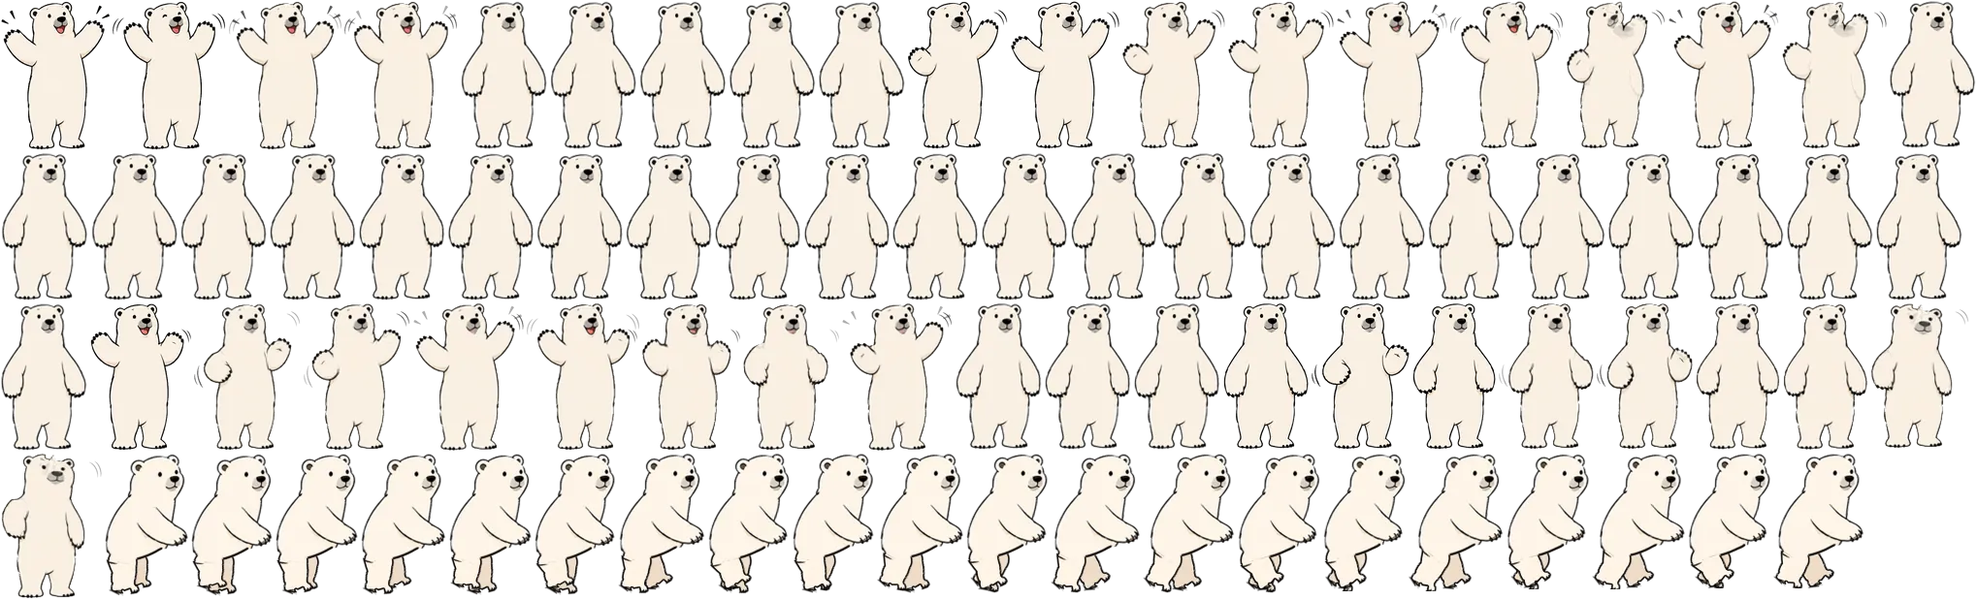
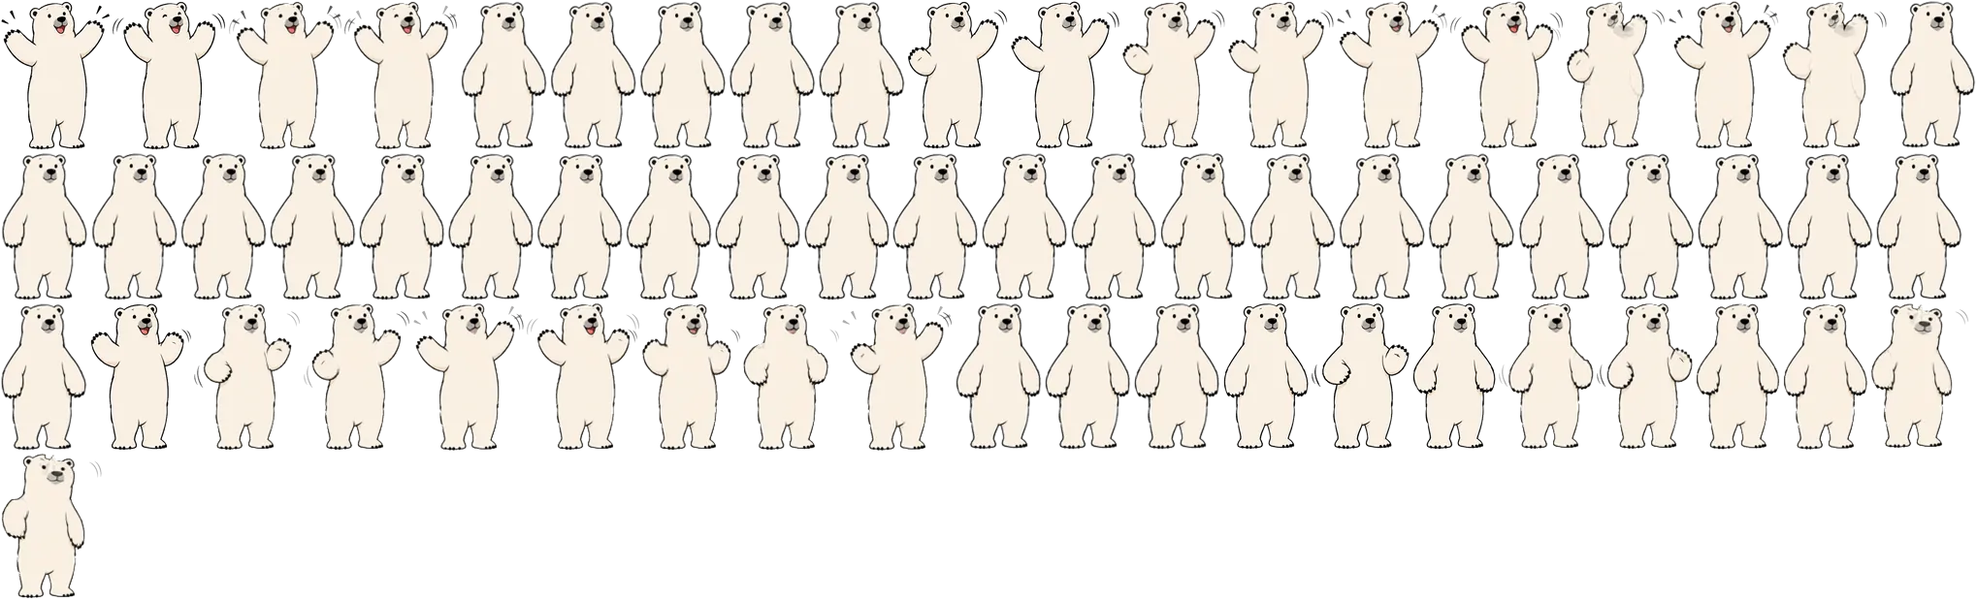
Bear walk replaced with the new walking animation from the supplied video
Claude-Session: https://claude.ai/code/session_01CeHmJgKZfF64tcsRYisCNi

Changed region(s): [[0.0309, 0.7367, 0.9583, 1.0]]

diff --git a/assistant/assistant.js b/assistant/assistant.js
@@ -202,14 +202,14 @@
   // (assistant/bear-*.webp), a live gold chain with physics, and a little "brain" that picks what to do next
   function pengHTML() { return '<span class="pa-mv"><canvas class="pa-bear" aria-hidden="true"></canvas></span>'; }
   function pengMini() { return '<canvas class="pa-bear pa-bear-mini" aria-hidden="true"></canvas>'; }
-  /*BEAR-DATA*/var BD = {"atlas":["bear-core.webp","bear-hello.webp","bear-push.webp","bear-fall.webp","bear-rain.webp"],"f":{"idle0":[0,1947,0,91,154,44,152,-17.6,-111.4,18.4,-110.8,1.1,-94.0],"idle1":[0,0,157,92,154,45,152,-17.4,-111.6,18.6,-111.0,1.3,-94.2],"idle2":[0,93,157,91,154,45,152,-17.2,-111.8,18.8,-111.1,1.5,-94.4],"idle3":[0,185,157,91,154,45,152,-17.0,-111.9,19.0,-111.1,1.7,-94.5],"idle4":[0,277,157,91,154,45,152,-16.9,-111.9,19.1,-111.1,1.9,-94.5],"idle5":[0,369,157,91,154,45,152,-16.8,-111.8,19.2,-111.1,2.0,-94.4],"idle6":[0,461,157,90,154,45,152,-16.8,-111.6,19.2,-111.0,2.1,-94.3],"idle7":[0,552,157,91,154,46,152,-16.8,-111.4,19.2,-110.8,2.1,-94.2],"idle8":[0,644,157,91,154,46,152,-16.8,-111.1,19.2,-110.6,2.1,-94.0],"idle9":[0,984,312,91,153,46,151,-16.9,-110.8,19.1,-110.5,2.1,-93.8],"idle10":[0,1076,312,91,153,46,151,-17.0,-110.6,19.0,-110.4,2.0,-93.6],"idle11":[0,1168,312,91,153,46,151,-17.1,-110.5,18.8,-110.4,1.9,-93.5],"idle12":[0,736,157,91,154,46,152,-17.3,-110.5,18.7,-110.4,1.7,-93.5],"idle13":[0,828,157,90,154,46,152,-17.5,-110.5,18.5,-110.5,1.6,-93.5],"idle14":[0,919,157,91,154,46,152,-17.7,-110.7,18.3,-110.7,1.4,-93.7],"idle15":[0,1011,157,91,154,46,152,-17.9,-110.8,18.1,-111.0,1.2,-93.8],"idle16":[0,1103,157,91,154,46,152,-18.2,-111.0,17.8,-111.2,0.9,-94.0],"idle17":[0,1195,157,91,154,46,152,-18.4,-111.2,17.6,-111.5,0.7,-94.2],"idle18":[0,474,0,91,155,46,153,-18.6,-111.3,17.4,-111.7,0.5,-94.4],"idle19":[0,566,0,91,155,46,153,-18.9,-111.3,17.1,-111.8,0.3,-94.5],"idle20":[0,658,0,92,155,46,153,-19.1,-111.3,16.9,-111.9,0.1,-94.5],"idle21":[0,751,0,91,155,45,153,-19.2,-111.2,16.8,-111.8,-0.0,-94.5],"idle22":[0,843,0,91,155,45,153,-19.3,-111.0,16.7,-111.7,-0.1,-94.3],"idle23":[0,1287,157,91,154,45,152,-19.4,-110.7,16.6,-111.5,-0.2,-94.2],"idle24":[0,1379,157,91,154,45,152,-19.4,-110.5,16.6,-111.3,-0.2,-94.0],"idle25":[0,1471,157,92,154,45,152,-19.3,-110.3,16.7,-111.0,-0.1,-93.8],"idle26":[0,1564,157,92,154,45,152,-19.2,-110.2,16.8,-110.8,-0.0,-93.6],"idle27":[0,1657,157,91,154,44,152,-19.0,-110.2,17.0,-110.7,0.1,-93.5],"idle28":[0,1749,157,91,154,44,152,-18.7,-110.3,17.2,-110.6,0.2,-93.5],"idle29":[0,1841,157,91,154,44,152,-18.5,-110.5,17.5,-110.6,0.4,-93.5],"idle30":[0,1933,157,91,154,44,152,-18.2,-110.8,17.8,-110.6,0.7,-93.7],"idle31":[0,0,312,91,154,44,152,-17.9,-111.1,18.1,-110.7,0.9,-93.8],"rw0":[0,1739,467,87,140,40,137,-10.3,-100.8,25.5,-95.5,12.0,-83.0],"rw1":[0,1552,467,87,141,40,138,-10.5,-102.0,25.4,-96.7,11.9,-84.2],"rw2":[0,1363,467,87,143,40,140,-10.9,-104.1,25.0,-99.1,11.6,-86.5],"rw3":[0,995,467,86,145,40,142,-11.3,-105.5,24.6,-100.7,11.3,-88.0],"rw4":[0,816,467,86,146,40,144,-11.7,-106.4,24.2,-101.8,11.0,-89.0],"rw5":[0,283,467,87,148,40,146,-11.9,-106.9,24.1,-102.4,10.9,-89.6],"rw6":[0,107,467,88,149,40,147,-11.7,-106.9,24.2,-102.2,11.0,-89.5],"rw7":[0,371,467,90,148,40,146,-11.3,-106.3,24.6,-101.5,11.3,-88.8],"rw8":[0,636,467,92,147,41,144,-10.9,-105.4,25.0,-100.4,11.6,-87.8],"rw9":[0,1082,467,94,145,43,142,-10.5,-104.4,25.4,-99.1,11.9,-86.6],"rw10":[0,1827,467,96,140,44,137,-10.3,-100.8,25.5,-95.5,12.0,-83.0],"rw11":[0,1640,467,98,141,47,138,-10.5,-102.0,25.4,-96.7,11.9,-84.2],"rw12":[0,1451,467,100,143,49,140,-10.9,-104.1,25.0,-99.1,11.6,-86.5],"rw13":[0,1177,467,97,145,47,142,-11.3,-105.5,24.6,-100.7,11.3,-88.0],"rw14":[0,903,467,91,146,43,144,-11.7,-106.4,24.2,-101.8,11.0,-89.0],"rw15":[0,462,467,87,148,40,146,-11.9,-106.9,24.1,-102.4,10.9,-89.6],"rw16":[0,196,467,86,149,40,147,-11.7,-106.9,24.2,-102.2,11.0,-89.5],"rw17":[0,550,467,85,148,40,146,-11.3,-106.3,24.6,-101.5,11.3,-88.8],"rw18":[0,729,467,86,147,40,144,-10.9,-105.4,25.0,-100.4,11.6,-87.8],"rw19":[0,1275,467,87,145,40,142,-10.5,-104.4,25.4,-99.1,11.9,-86.6],"happy0":[0,1260,312,90,153,45,151,-18.0,-111.0,18.0,-111.0,1.0,-94.0],"happy1":[0,1351,312,103,153,54,151,-18.0,-111.0,17.0,-111.0,0.0,-94.0],"happy2":[0,935,0,105,155,47,153,-18.0,-110.0,16.0,-111.0,-1.0,-94.0],"happy3":[0,1041,0,114,155,56,153,-18.0,-110.0,16.0,-111.0,-1.0,-94.0],"happy4":[0,0,0,114,156,58,155,-20.0,-113.0,14.0,-113.0,-3.0,-97.0],"happy5":[0,115,0,119,156,61,155,-21.0,-112.0,13.0,-112.0,-4.0,-96.0],"happy6":[0,92,312,106,154,51,153,-19.0,-113.0,14.0,-113.0,-3.0,-97.0],"happy7":[0,1455,312,88,153,45,152,-18.0,-111.0,17.0,-111.0,0.0,-94.0],"happy0-1.1":[0,1544,312,100,153,54,151,-18.0,-111.0,17.7,-111.0,0.7,-94.0],"happy0-1.2":[0,1645,312,101,153,54,151,-18.0,-111.0,17.3,-111.0,0.3,-94.0],"happy1-2.1":[0,199,312,112,154,54,152,-18.0,-110.7,16.7,-111.0,-0.3,-94.0],"happy1-2.2":[0,312,312,112,154,54,152,-18.0,-110.3,16.3,-111.0,-0.7,-94.0],"happy2-3.1":[0,1156,0,108,155,50,153,-18.0,-110.0,16.0,-111.0,-1.0,-94.0],"happy2-3.2":[0,1265,0,111,155,53,153,-18.0,-110.0,16.0,-111.0,-1.0,-94.0],"happy3-4.1":[0,425,312,116,154,58,153,-18.7,-111.0,15.3,-111.7,-1.7,-95.0],"happy3-4.2":[0,1377,0,116,155,58,154,-19.3,-112.0,14.7,-112.3,-2.3,-96.0],"happy4-5.1":[0,235,0,118,156,61,155,-20.3,-112.7,13.7,-112.7,-3.3,-96.7],"happy4-5.2":[0,354,0,119,156,61,155,-20.7,-112.3,13.3,-112.3,-3.7,-96.3],"happy5-6.1":[0,1494,0,119,155,61,154,-20.3,-112.3,13.3,-112.3,-3.7,-96.3],"happy5-6.2":[0,542,312,118,154,61,153,-19.7,-112.7,13.7,-112.7,-3.3,-96.7],"happy6-7.1":[0,661,312,103,154,48,153,-18.7,-112.3,15.0,-112.3,-2.0,-96.0],"happy6-7.2":[0,765,312,101,154,46,153,-18.3,-111.7,16.0,-111.7,-1.0,-95.0],"happy7-0.1":[0,1747,312,89,153,45,152,-18.0,-111.0,17.3,-111.0,0.3,-94.0],"happy7-0.2":[0,1837,312,89,153,45,152,-18.0,-111.0,17.7,-111.0,0.7,-94.0],"happy0-2.1":[0,1927,312,104,152,46,150,-18.0,-110.7,17.3,-111.0,0.3,-94.0],"happy0-2.2":[0,1614,0,104,155,46,153,-18.0,-110.3,16.7,-111.0,-0.3,-94.0],"happy2-4.1":[0,867,312,116,154,58,153,-18.7,-111.0,15.3,-111.7,-1.7,-95.0],"happy2-4.2":[0,1719,0,116,155,58,154,-19.3,-112.0,14.7,-112.3,-2.3,-96.0],"happy0-3.1":[0,0,467,106,152,48,150,-18.0,-110.7,17.3,-111.0,0.3,-94.0],"happy0-3.2":[0,1836,0,110,155,52,153,-18.0,-110.3,16.7,-111.0,-0.3,-94.0],"hello0":[1,1120,0,90,153,45,151,-23.0,-109.0,18.0,-107.0,2.0,-93.0],"hello1":[1,888,0,116,154,64,153,-21.0,-110.0,18.0,-108.0,3.0,-95.0],"hello2":[1,283,0,130,157,53,157,-23.0,-110.0,16.0,-108.0,1.0,-94.0],"hello3":[1,756,310,140,126,90,126,3.0,-95.0,32.0,-83.0,20.0,-69.0],"hello4":[1,0,159,142,150,74,150,-13.0,-112.0,31.0,-111.0,13.0,-95.0],"hello5":[1,697,159,127,148,65,157,-11.0,-119.0,25.0,-119.0,8.0,-103.0],"hello6":[1,301,310,165,137,83,157,-15.0,-115.0,27.0,-115.0,5.0,-99.0],"hello7":[1,166,310,134,138,74,140,-23.0,-97.0,19.0,-97.0,-2.0,-83.0],"hello8":[1,237,159,165,149,86,150,-19.0,-107.0,23.0,-107.0,2.0,-92.0],"hello9":[1,1451,159,127,146,65,148,-23.0,-106.0,22.0,-107.0,0.0,-91.0],"hello10":[1,143,159,93,150,49,151,-27.0,-109.0,17.0,-107.0,-1.0,-93.0],"hello0-1.1":[1,1211,0,112,153,64,151,-22.3,-109.3,18.0,-107.3,2.3,-93.7],"hello0-1.2":[1,1005,0,114,154,64,152,-21.7,-109.7,18.0,-107.7,2.7,-94.3],"hello1-2.1":[1,0,0,140,158,64,157,-21.7,-110.0,17.3,-108.0,2.3,-94.7],"hello1-2.2":[1,141,0,141,158,64,157,-22.3,-110.0,16.7,-108.0,1.7,-94.3],"hello2-3.1":[1,414,0,167,157,90,157,-14.3,-105.0,21.3,-99.7,7.3,-85.7],"hello2-3.2":[1,582,0,166,157,90,157,-5.7,-100.0,26.7,-91.3,13.7,-77.3],"hello3-4.1":[1,467,310,146,134,90,134,-2.3,-100.7,31.7,-92.3,17.7,-77.7],"hello3-4.2":[1,1887,159,152,142,90,142,-7.7,-106.3,31.3,-101.7,15.3,-86.3],"hello4-5.1":[1,1324,0,140,153,74,153,-12.3,-114.3,29.0,-113.7,11.3,-97.7],"hello4-5.2":[1,749,0,138,155,74,155,-11.7,-116.7,27.0,-116.3,9.7,-100.3],"hello5-6.1":[1,825,159,165,148,83,157,-12.3,-117.7,25.7,-117.7,7.0,-101.7],"hello5-6.2":[1,991,159,165,148,83,157,-13.7,-116.3,26.3,-116.3,6.0,-100.3],"hello6-7.1":[1,1465,0,165,153,83,157,-17.7,-109.0,24.3,-109.0,2.7,-93.7],"hello6-7.2":[1,1631,0,165,153,83,157,-20.3,-103.0,21.7,-103.0,0.3,-88.3],"hello7-8.1":[1,0,310,165,142,86,144,-21.7,-100.3,20.3,-100.3,-0.7,-86.0],"hello7-8.2":[1,1579,159,165,145,86,147,-20.3,-103.7,21.7,-103.7,0.7,-89.0],"hello8-9.1":[1,403,159,165,149,86,150,-20.3,-106.7,22.7,-107.0,1.3,-91.7],"hello8-9.2":[1,1157,159,165,147,86,149,-21.7,-106.3,22.3,-107.0,0.7,-91.3],"hello9-10.1":[1,1323,159,127,147,65,149,-24.3,-107.0,20.3,-107.0,-0.3,-91.7],"hello9-10.2":[1,569,159,127,149,65,150,-25.7,-108.0,18.7,-107.0,-0.7,-92.3],"hello10-0.1":[1,1890,0,92,151,48,151,-25.7,-109.0,17.3,-107.0,0.0,-93.0],"hello10-0.2":[1,1797,0,92,152,47,151,-24.3,-109.0,17.7,-107.0,1.0,-93.0],"hello1-3.1":[1,1745,159,141,145,90,144,-13.0,-105.0,22.7,-99.7,8.7,-86.3],"hello1-3.2":[1,614,310,141,134,90,134,-5.0,-100.0,27.3,-91.3,14.3,-77.7],"push2":[2,621,0,162,142,80,141,-17.0,-97.0,27.0,-96.0,12.0,-80.0],"push3":[2,1264,151,179,128,92,129,-13.0,-91.0,29.0,-84.0,11.0,-70.0],"push4":[2,1444,151,185,127,93,133,-5.0,-94.0,38.0,-87.0,20.0,-73.0],"push5":[2,369,288,184,126,93,133,1.0,-94.0,44.0,-87.0,26.0,-73.0],"push6":[2,920,288,182,125,93,133,2.0,-94.0,45.0,-87.0,27.0,-73.0],"push7":[2,1103,288,182,125,93,133,2.0,-94.0,45.0,-87.0,27.0,-73.0],"push8":[2,545,151,170,135,93,144,-13.0,-96.0,28.0,-94.0,13.0,-78.0],"push9":[2,1673,0,174,137,82,145,-25.0,-101.0,21.0,-99.0,5.0,-83.0],"push10":[2,489,0,131,144,58,149,-18.0,-106.0,26.0,-106.0,4.0,-90.0],"push11":[2,0,0,162,150,82,154,-18.0,-106.0,26.0,-106.0,4.0,-91.0],"push2-3.1":[2,1134,0,166,138,84,137,-15.7,-95.0,27.7,-92.0,11.7,-76.7],"push2-3.2":[2,716,151,175,134,88,133,-14.3,-93.0,28.3,-88.0,11.3,-73.3],"push3-4.1":[2,1078,151,185,129,93,130,-10.3,-92.0,32.0,-85.0,14.0,-71.0],"push3-4.2":[2,892,151,185,131,93,132,-7.7,-93.0,35.0,-86.0,17.0,-72.0],"push4-5.1":[2,1630,151,185,127,93,133,-3.0,-94.0,40.0,-87.0,22.0,-73.0],"push4-5.2":[2,1816,151,185,127,93,133,-1.0,-94.0,42.0,-87.0,24.0,-73.0],"push5-6.1":[2,0,288,184,127,93,134,1.3,-94.0,44.3,-87.0,26.3,-73.0],"push5-6.2":[2,185,288,183,127,93,134,1.7,-94.0,44.7,-87.0,26.7,-73.0],"push6-7.1":[2,554,288,182,126,93,134,2.0,-94.0,45.0,-87.0,27.0,-73.0],"push6-7.2":[2,737,288,182,126,93,134,2.0,-94.0,45.0,-87.0,27.0,-73.0],"push7-8.1":[2,1848,0,182,136,93,144,-3.0,-94.7,39.3,-89.3,22.3,-74.7],"push7-8.2":[2,0,151,182,136,93,144,-8.0,-95.3,33.7,-91.7,17.7,-76.3],"push8-4.1":[2,1301,0,185,138,93,144,-10.3,-95.3,31.3,-91.7,15.3,-76.3],"push8-4.2":[2,1487,0,185,138,93,144,-7.7,-94.7,34.7,-89.3,17.7,-74.7],"push8-9.1":[2,183,151,181,136,89,144,-17.0,-97.7,25.7,-95.7,10.3,-79.7],"push8-9.2":[2,365,151,179,136,87,144,-21.0,-99.3,23.3,-97.3,7.7,-81.3],"push9-10.1":[2,959,0,174,140,82,147,-22.7,-102.7,22.7,-101.3,4.7,-85.3],"push9-10.2":[2,784,0,174,142,82,148,-20.3,-104.3,24.3,-103.7,4.3,-87.7],"push10-11.1":[2,326,0,162,149,82,154,-18.0,-106.0,26.0,-106.0,4.0,-90.3],"push10-11.2":[2,163,0,162,150,82,154,-18.0,-106.0,26.0,-106.0,4.0,-90.7],"fall0":[3,771,0,84,125,42,124,-15.0,-94.0,15.0,-95.0,0.0,-80.0],"fall1":[3,325,0,91,126,45,124,-18.0,-95.0,12.0,-96.0,-3.0,-81.0],"fall2":[3,417,0,85,126,42,124,-17.0,-95.0,13.0,-96.0,-2.0,-81.0],"fall3":[3,856,0,85,125,42,124,-13.0,-95.0,16.0,-96.0,2.0,-81.0],"fall4":[3,942,0,103,125,51,124,-23.0,-93.0,7.0,-97.0,-6.0,-80.0],"fall5":[3,1872,0,87,83,43,94],"fall6":[3,409,152,109,66,51,69],"fall7":[3,997,152,127,46,65,48],"fall8":[3,110,152,112,76,61,84],"fall9":[3,1661,0,103,97,55,108,-14.0,-79.0,22.0,-78.0,5.0,-64.0],"fall10":[3,247,0,77,139,42,140,-17.0,-115.0,19.0,-115.0,1.0,-99.0],"fall11":[3,0,0,83,151,42,151,-19.0,-117.0,17.0,-117.0,-1.0,-101.0],"fall0-1.1":[3,1046,0,86,125,43,124,-16.0,-94.3,14.0,-95.3,-1.0,-80.3],"fall0-1.2":[3,503,0,89,126,44,124,-17.0,-94.7,13.0,-95.7,-2.0,-80.7],"fall1-2.1":[3,593,0,89,126,44,124,-17.7,-95.0,12.3,-96.0,-2.7,-81.0],"fall1-2.2":[3,683,0,87,126,43,124,-17.3,-95.0,12.7,-96.0,-2.3,-81.0],"fall2-3.1":[3,1133,0,86,125,43,124,-15.7,-95.0,14.0,-96.0,-0.7,-81.0],"fall2-3.2":[3,1220,0,84,125,42,124,-14.3,-95.0,15.0,-96.0,0.7,-81.0],"fall3-4.1":[3,1305,0,90,125,45,124,-16.3,-94.3,13.0,-96.3,-0.7,-80.7],"fall3-4.2":[3,1396,0,96,125,48,124,-19.7,-93.7,10.0,-96.7,-3.3,-80.3],"fall5-6.1":[3,223,152,88,75,43,84],"fall5-6.2":[3,312,152,96,68,44,75],"fall6-7.1":[3,636,152,115,57,56,61],"fall6-7.2":[3,875,152,121,50,61,53],"fall7-8.1":[3,752,152,122,56,64,60],"fall7-8.2":[3,519,152,116,66,62,72],"fall8-9.1":[3,0,152,109,83,59,92],"fall8-9.2":[3,1765,0,106,89,57,99],"fall9-10.1":[3,1571,0,89,110,48,118,-15.0,-91.0,21.0,-90.3,3.7,-75.7],"fall9-10.2":[3,1493,0,77,125,42,130,-16.0,-103.0,20.0,-102.7,2.3,-87.3],"fall10-11.1":[3,167,0,79,143,42,144,-17.7,-115.7,18.3,-115.7,0.3,-99.7],"fall10-11.2":[3,84,0,82,148,43,148,-18.3,-116.3,17.7,-116.3,-0.3,-100.3],"rain0":[4,1223,216,103,153,52,151,-23.0,-106.0,23.0,-106.0,1.0,-89.0],"rain1":[4,492,216,103,179,52,177,-21.0,-106.0,25.0,-106.0,3.0,-89.0],"rain2":[4,916,216,103,157,52,155,-23.0,-106.0,23.0,-106.0,1.0,-89.0],"rain3":[4,1739,216,101,147,50,146,-23.0,-106.0,23.0,-106.0,1.0,-89.0],"rain4":[4,1327,216,103,153,52,151,-23.0,-106.0,23.0,-106.0,1.0,-89.0],"rain5":[4,1431,216,103,153,52,151,-23.0,-106.0,23.0,-106.0,1.0,-89.0],"rain6":[4,1020,216,101,155,48,155,-23.0,-107.0,23.0,-107.0,1.0,-90.0],"rain7":[4,666,399,104,142,51,140,-23.0,-99.0,23.0,-99.0,1.0,-82.0],"rain8":[4,1841,216,143,147,68,149,-23.0,-101.0,25.0,-101.0,3.0,-84.0],"rain9":[4,771,399,142,142,66,144,-23.0,-102.0,23.0,-102.0,1.0,-85.0],"rain10":[4,166,216,159,181,80,181,-13.0,-114.0,31.0,-114.0,9.0,-98.0],"rain11":[4,1278,0,165,183,83,183,-23.0,-108.0,21.0,-108.0,-1.0,-92.0],"rain12":[4,326,216,165,180,83,180,-21.0,-110.0,23.0,-110.0,1.0,-94.0],"rain13":[4,970,0,141,199,66,201,-23.0,-102.0,25.0,-102.0,1.0,-85.0],"rain14":[4,0,0,106,215,50,214,-23.0,-96.0,23.0,-96.0,1.0,-80.0],"rain5-6.1":[4,1535,216,100,152,49,152,-23.0,-106.3,23.0,-106.3,1.0,-89.3],"rain5-6.2":[4,1122,216,100,154,48,154,-23.0,-106.7,23.0,-106.7,1.0,-89.7],"rain6-7.1":[4,1636,216,102,150,49,150,-23.0,-104.3,23.0,-104.3,1.0,-87.3],"rain6-7.2":[4,0,399,103,145,50,145,-23.0,-101.7,23.0,-101.7,1.0,-84.7],"rain7-8.1":[4,532,399,133,143,58,143,-23.0,-99.7,23.7,-99.7,1.7,-82.7],"rain7-8.2":[4,104,399,140,145,65,146,-23.0,-100.3,24.3,-100.3,2.3,-83.3],"rain8-9.1":[4,245,399,143,145,67,147,-23.0,-101.3,24.3,-101.3,2.3,-84.3],"rain8-9.2":[4,389,399,142,144,66,146,-23.0,-101.7,23.7,-101.7,1.7,-84.7],"rain9-10.1":[4,756,216,159,161,80,163,-19.7,-106.0,25.7,-106.0,3.7,-89.3],"rain9-10.2":[4,596,216,159,163,80,164,-16.3,-110.0,28.3,-110.0,6.3,-93.7],"rain10-11.1":[4,1776,0,165,182,83,183,-16.3,-112.0,27.7,-112.0,5.7,-96.0],"rain10-11.2":[4,1444,0,165,183,83,183,-19.7,-110.0,24.3,-110.0,2.3,-94.0],"rain11-12.1":[4,1610,0,165,183,83,183,-22.3,-108.7,21.7,-108.7,-0.3,-92.7],"rain11-12.2":[4,0,216,165,182,83,183,-21.7,-109.3,22.3,-109.3,0.3,-93.3],"rain12-13.1":[4,804,0,165,200,83,201,-21.7,-107.3,23.7,-107.3,1.0,-91.0],"rain12-13.2":[4,1112,0,165,199,83,201,-22.3,-104.7,24.3,-104.7,1.0,-88.0],"rain13-14.1":[4,107,0,135,215,60,214,-23.0,-100.0,24.3,-100.0,1.0,-83.3],"rain13-14.2":[4,243,0,133,215,58,214,-23.0,-98.0,23.7,-98.0,1.0,-81.7],"rain14-7.1":[4,377,0,106,215,50,214,-23.0,-97.0,23.0,-97.0,1.0,-80.7],"rain14-7.2":[4,484,0,106,215,50,214,-23.0,-98.0,23.0,-98.0,1.0,-81.3],"rain14-5.1":[4,591,0,106,215,50,214,-23.0,-99.3,23.0,-99.3,1.0,-83.0],"rain14-5.2":[4,698,0,105,215,49,214,-23.0,-102.7,23.0,-102.7,1.0,-86.0]},"tw":{"happy0-1":2,"happy1-2":2,"happy2-3":2,"happy3-4":2,"happy4-5":2,"happy5-6":2,"happy6-7":2,"happy7-0":2,"happy0-2":2,"happy2-4":2,"happy0-3":2,"hello0-1":2,"hello1-2":2,"hello2-3":2,"hello3-4":2,"hello4-5":2,"hello5-6":2,"hello6-7":2,"hello7-8":2,"hello8-9":2,"hello9-10":2,"hello10-0":2,"hello1-3":2,"push2-3":2,"push3-4":2,"push4-5":2,"push5-6":2,"push6-7":2,"push7-8":2,"push8-4":2,"push8-9":2,"push9-10":2,"push10-11":2,"fall0-1":2,"fall1-2":2,"fall2-3":2,"fall3-4":2,"fall5-6":2,"fall6-7":2,"fall7-8":2,"fall8-9":2,"fall9-10":2,"fall10-11":2,"rain5-6":2,"rain6-7":2,"rain7-8":2,"rain8-9":2,"rain9-10":2,"rain10-11":2,"rain11-12":2,"rain12-13":2,"rain13-14":2,"rain14-7":2,"rain14-5":2},"idle":[32,3.2],"rw":[20,58.62068965517242],"reach":{"push2":51,"push3":46,"push4":57,"push5":61,"push6":62,"push7":65,"push8":61,"push9":60,"push10":66,"push11":45}};/*END-BEAR-DATA*/
+  /*BEAR-DATA*/var BD = {"atlas":["bear-core.webp","bear-hello.webp","bear-push.webp","bear-fall.webp","bear-rain.webp","bear-walk.webp"],"f":{"idle0":[0,1947,0,91,154,44,152,-17.6,-111.4,18.4,-110.8,1.1,-94.0],"idle1":[0,0,157,92,154,45,152,-17.4,-111.6,18.6,-111.0,1.3,-94.2],"idle2":[0,93,157,91,154,45,152,-17.2,-111.8,18.8,-111.1,1.5,-94.4],"idle3":[0,185,157,91,154,45,152,-17.0,-111.9,19.0,-111.1,1.7,-94.5],"idle4":[0,277,157,91,154,45,152,-16.9,-111.9,19.1,-111.1,1.9,-94.5],"idle5":[0,369,157,91,154,45,152,-16.8,-111.8,19.2,-111.1,2.0,-94.4],"idle6":[0,461,157,90,154,45,152,-16.8,-111.6,19.2,-111.0,2.1,-94.3],"idle7":[0,552,157,91,154,46,152,-16.8,-111.4,19.2,-110.8,2.1,-94.2],"idle8":[0,644,157,91,154,46,152,-16.8,-111.1,19.2,-110.6,2.1,-94.0],"idle9":[0,984,312,91,153,46,151,-16.9,-110.8,19.1,-110.5,2.1,-93.8],"idle10":[0,1076,312,91,153,46,151,-17.0,-110.6,19.0,-110.4,2.0,-93.6],"idle11":[0,1168,312,91,153,46,151,-17.1,-110.5,18.8,-110.4,1.9,-93.5],"idle12":[0,736,157,91,154,46,152,-17.3,-110.5,18.7,-110.4,1.7,-93.5],"idle13":[0,828,157,90,154,46,152,-17.5,-110.5,18.5,-110.5,1.6,-93.5],"idle14":[0,919,157,91,154,46,152,-17.7,-110.7,18.3,-110.7,1.4,-93.7],"idle15":[0,1011,157,91,154,46,152,-17.9,-110.8,18.1,-111.0,1.2,-93.8],"idle16":[0,1103,157,91,154,46,152,-18.2,-111.0,17.8,-111.2,0.9,-94.0],"idle17":[0,1195,157,91,154,46,152,-18.4,-111.2,17.6,-111.5,0.7,-94.2],"idle18":[0,474,0,91,155,46,153,-18.6,-111.3,17.4,-111.7,0.5,-94.4],"idle19":[0,566,0,91,155,46,153,-18.9,-111.3,17.1,-111.8,0.3,-94.5],"idle20":[0,658,0,92,155,46,153,-19.1,-111.3,16.9,-111.9,0.1,-94.5],"idle21":[0,751,0,91,155,45,153,-19.2,-111.2,16.8,-111.8,-0.0,-94.5],"idle22":[0,843,0,91,155,45,153,-19.3,-111.0,16.7,-111.7,-0.1,-94.3],"idle23":[0,1287,157,91,154,45,152,-19.4,-110.7,16.6,-111.5,-0.2,-94.2],"idle24":[0,1379,157,91,154,45,152,-19.4,-110.5,16.6,-111.3,-0.2,-94.0],"idle25":[0,1471,157,92,154,45,152,-19.3,-110.3,16.7,-111.0,-0.1,-93.8],"idle26":[0,1564,157,92,154,45,152,-19.2,-110.2,16.8,-110.8,-0.0,-93.6],"idle27":[0,1657,157,91,154,44,152,-19.0,-110.2,17.0,-110.7,0.1,-93.5],"idle28":[0,1749,157,91,154,44,152,-18.7,-110.3,17.2,-110.6,0.2,-93.5],"idle29":[0,1841,157,91,154,44,152,-18.5,-110.5,17.5,-110.6,0.4,-93.5],"idle30":[0,1933,157,91,154,44,152,-18.2,-110.8,17.8,-110.6,0.7,-93.7],"idle31":[0,0,312,91,154,44,152,-17.9,-111.1,18.1,-110.7,0.9,-93.8],"happy0":[0,1260,312,90,153,45,151,-18.0,-111.0,18.0,-111.0,1.0,-94.0],"happy1":[0,1351,312,103,153,54,151,-18.0,-111.0,17.0,-111.0,0.0,-94.0],"happy2":[0,935,0,105,155,47,153,-18.0,-110.0,16.0,-111.0,-1.0,-94.0],"happy3":[0,1041,0,114,155,56,153,-18.0,-110.0,16.0,-111.0,-1.0,-94.0],"happy4":[0,0,0,114,156,58,155,-20.0,-113.0,14.0,-113.0,-3.0,-97.0],"happy5":[0,115,0,119,156,61,155,-21.0,-112.0,13.0,-112.0,-4.0,-96.0],"happy6":[0,92,312,106,154,51,153,-19.0,-113.0,14.0,-113.0,-3.0,-97.0],"happy7":[0,1455,312,88,153,45,152,-18.0,-111.0,17.0,-111.0,0.0,-94.0],"happy0-1.1":[0,1544,312,100,153,54,151,-18.0,-111.0,17.7,-111.0,0.7,-94.0],"happy0-1.2":[0,1645,312,101,153,54,151,-18.0,-111.0,17.3,-111.0,0.3,-94.0],"happy1-2.1":[0,199,312,112,154,54,152,-18.0,-110.7,16.7,-111.0,-0.3,-94.0],"happy1-2.2":[0,312,312,112,154,54,152,-18.0,-110.3,16.3,-111.0,-0.7,-94.0],"happy2-3.1":[0,1156,0,108,155,50,153,-18.0,-110.0,16.0,-111.0,-1.0,-94.0],"happy2-3.2":[0,1265,0,111,155,53,153,-18.0,-110.0,16.0,-111.0,-1.0,-94.0],"happy3-4.1":[0,425,312,116,154,58,153,-18.7,-111.0,15.3,-111.7,-1.7,-95.0],"happy3-4.2":[0,1377,0,116,155,58,154,-19.3,-112.0,14.7,-112.3,-2.3,-96.0],"happy4-5.1":[0,235,0,118,156,61,155,-20.3,-112.7,13.7,-112.7,-3.3,-96.7],"happy4-5.2":[0,354,0,119,156,61,155,-20.7,-112.3,13.3,-112.3,-3.7,-96.3],"happy5-6.1":[0,1494,0,119,155,61,154,-20.3,-112.3,13.3,-112.3,-3.7,-96.3],"happy5-6.2":[0,542,312,118,154,61,153,-19.7,-112.7,13.7,-112.7,-3.3,-96.7],"happy6-7.1":[0,661,312,103,154,48,153,-18.7,-112.3,15.0,-112.3,-2.0,-96.0],"happy6-7.2":[0,765,312,101,154,46,153,-18.3,-111.7,16.0,-111.7,-1.0,-95.0],"happy7-0.1":[0,1747,312,89,153,45,152,-18.0,-111.0,17.3,-111.0,0.3,-94.0],"happy7-0.2":[0,1837,312,89,153,45,152,-18.0,-111.0,17.7,-111.0,0.7,-94.0],"happy0-2.1":[0,1927,312,104,152,46,150,-18.0,-110.7,17.3,-111.0,0.3,-94.0],"happy0-2.2":[0,1614,0,104,155,46,153,-18.0,-110.3,16.7,-111.0,-0.3,-94.0],"happy2-4.1":[0,867,312,116,154,58,153,-18.7,-111.0,15.3,-111.7,-1.7,-95.0],"happy2-4.2":[0,1719,0,116,155,58,154,-19.3,-112.0,14.7,-112.3,-2.3,-96.0],"happy0-3.1":[0,0,467,106,152,48,150,-18.0,-110.7,17.3,-111.0,0.3,-94.0],"happy0-3.2":[0,1836,0,110,155,52,153,-18.0,-110.3,16.7,-111.0,-0.3,-94.0],"hello0":[1,1120,0,90,153,45,151,-23.0,-109.0,18.0,-107.0,2.0,-93.0],"hello1":[1,888,0,116,154,64,153,-21.0,-110.0,18.0,-108.0,3.0,-95.0],"hello2":[1,283,0,130,157,53,157,-23.0,-110.0,16.0,-108.0,1.0,-94.0],"hello3":[1,756,310,140,126,90,126,3.0,-95.0,32.0,-83.0,20.0,-69.0],"hello4":[1,0,159,142,150,74,150,-13.0,-112.0,31.0,-111.0,13.0,-95.0],"hello5":[1,697,159,127,148,65,157,-11.0,-119.0,25.0,-119.0,8.0,-103.0],"hello6":[1,301,310,165,137,83,157,-15.0,-115.0,27.0,-115.0,5.0,-99.0],"hello7":[1,166,310,134,138,74,140,-23.0,-97.0,19.0,-97.0,-2.0,-83.0],"hello8":[1,237,159,165,149,86,150,-19.0,-107.0,23.0,-107.0,2.0,-92.0],"hello9":[1,1451,159,127,146,65,148,-23.0,-106.0,22.0,-107.0,0.0,-91.0],"hello10":[1,143,159,93,150,49,151,-27.0,-109.0,17.0,-107.0,-1.0,-93.0],"hello0-1.1":[1,1211,0,112,153,64,151,-22.3,-109.3,18.0,-107.3,2.3,-93.7],"hello0-1.2":[1,1005,0,114,154,64,152,-21.7,-109.7,18.0,-107.7,2.7,-94.3],"hello1-2.1":[1,0,0,140,158,64,157,-21.7,-110.0,17.3,-108.0,2.3,-94.7],"hello1-2.2":[1,141,0,141,158,64,157,-22.3,-110.0,16.7,-108.0,1.7,-94.3],"hello2-3.1":[1,414,0,167,157,90,157,-14.3,-105.0,21.3,-99.7,7.3,-85.7],"hello2-3.2":[1,582,0,166,157,90,157,-5.7,-100.0,26.7,-91.3,13.7,-77.3],"hello3-4.1":[1,467,310,146,134,90,134,-2.3,-100.7,31.7,-92.3,17.7,-77.7],"hello3-4.2":[1,1887,159,152,142,90,142,-7.7,-106.3,31.3,-101.7,15.3,-86.3],"hello4-5.1":[1,1324,0,140,153,74,153,-12.3,-114.3,29.0,-113.7,11.3,-97.7],"hello4-5.2":[1,749,0,138,155,74,155,-11.7,-116.7,27.0,-116.3,9.7,-100.3],"hello5-6.1":[1,825,159,165,148,83,157,-12.3,-117.7,25.7,-117.7,7.0,-101.7],"hello5-6.2":[1,991,159,165,148,83,157,-13.7,-116.3,26.3,-116.3,6.0,-100.3],"hello6-7.1":[1,1465,0,165,153,83,157,-17.7,-109.0,24.3,-109.0,2.7,-93.7],"hello6-7.2":[1,1631,0,165,153,83,157,-20.3,-103.0,21.7,-103.0,0.3,-88.3],"hello7-8.1":[1,0,310,165,142,86,144,-21.7,-100.3,20.3,-100.3,-0.7,-86.0],"hello7-8.2":[1,1579,159,165,145,86,147,-20.3,-103.7,21.7,-103.7,0.7,-89.0],"hello8-9.1":[1,403,159,165,149,86,150,-20.3,-106.7,22.7,-107.0,1.3,-91.7],"hello8-9.2":[1,1157,159,165,147,86,149,-21.7,-106.3,22.3,-107.0,0.7,-91.3],"hello9-10.1":[1,1323,159,127,147,65,149,-24.3,-107.0,20.3,-107.0,-0.3,-91.7],"hello9-10.2":[1,569,159,127,149,65,150,-25.7,-108.0,18.7,-107.0,-0.7,-92.3],"hello10-0.1":[1,1890,0,92,151,48,151,-25.7,-109.0,17.3,-107.0,0.0,-93.0],"hello10-0.2":[1,1797,0,92,152,47,151,-24.3,-109.0,17.7,-107.0,1.0,-93.0],"hello1-3.1":[1,1745,159,141,145,90,144,-13.0,-105.0,22.7,-99.7,8.7,-86.3],"hello1-3.2":[1,614,310,141,134,90,134,-5.0,-100.0,27.3,-91.3,14.3,-77.7],"push2":[2,621,0,162,142,80,141,-17.0,-97.0,27.0,-96.0,12.0,-80.0],"push3":[2,1264,151,179,128,92,129,-13.0,-91.0,29.0,-84.0,11.0,-70.0],"push4":[2,1444,151,185,127,93,133,-5.0,-94.0,38.0,-87.0,20.0,-73.0],"push5":[2,369,288,184,126,93,133,1.0,-94.0,44.0,-87.0,26.0,-73.0],"push6":[2,920,288,182,125,93,133,2.0,-94.0,45.0,-87.0,27.0,-73.0],"push7":[2,1103,288,182,125,93,133,2.0,-94.0,45.0,-87.0,27.0,-73.0],"push8":[2,545,151,170,135,93,144,-13.0,-96.0,28.0,-94.0,13.0,-78.0],"push9":[2,1673,0,174,137,82,145,-25.0,-101.0,21.0,-99.0,5.0,-83.0],"push10":[2,489,0,131,144,58,149,-18.0,-106.0,26.0,-106.0,4.0,-90.0],"push11":[2,0,0,162,150,82,154,-18.0,-106.0,26.0,-106.0,4.0,-91.0],"push2-3.1":[2,1134,0,166,138,84,137,-15.7,-95.0,27.7,-92.0,11.7,-76.7],"push2-3.2":[2,716,151,175,134,88,133,-14.3,-93.0,28.3,-88.0,11.3,-73.3],"push3-4.1":[2,1078,151,185,129,93,130,-10.3,-92.0,32.0,-85.0,14.0,-71.0],"push3-4.2":[2,892,151,185,131,93,132,-7.7,-93.0,35.0,-86.0,17.0,-72.0],"push4-5.1":[2,1630,151,185,127,93,133,-3.0,-94.0,40.0,-87.0,22.0,-73.0],"push4-5.2":[2,1816,151,185,127,93,133,-1.0,-94.0,42.0,-87.0,24.0,-73.0],"push5-6.1":[2,0,288,184,127,93,134,1.3,-94.0,44.3,-87.0,26.3,-73.0],"push5-6.2":[2,185,288,183,127,93,134,1.7,-94.0,44.7,-87.0,26.7,-73.0],"push6-7.1":[2,554,288,182,126,93,134,2.0,-94.0,45.0,-87.0,27.0,-73.0],"push6-7.2":[2,737,288,182,126,93,134,2.0,-94.0,45.0,-87.0,27.0,-73.0],"push7-8.1":[2,1848,0,182,136,93,144,-3.0,-94.7,39.3,-89.3,22.3,-74.7],"push7-8.2":[2,0,151,182,136,93,144,-8.0,-95.3,33.7,-91.7,17.7,-76.3],"push8-4.1":[2,1301,0,185,138,93,144,-10.3,-95.3,31.3,-91.7,15.3,-76.3],"push8-4.2":[2,1487,0,185,138,93,144,-7.7,-94.7,34.7,-89.3,17.7,-74.7],"push8-9.1":[2,183,151,181,136,89,144,-17.0,-97.7,25.7,-95.7,10.3,-79.7],"push8-9.2":[2,365,151,179,136,87,144,-21.0,-99.3,23.3,-97.3,7.7,-81.3],"push9-10.1":[2,959,0,174,140,82,147,-22.7,-102.7,22.7,-101.3,4.7,-85.3],"push9-10.2":[2,784,0,174,142,82,148,-20.3,-104.3,24.3,-103.7,4.3,-87.7],"push10-11.1":[2,326,0,162,149,82,154,-18.0,-106.0,26.0,-106.0,4.0,-90.3],"push10-11.2":[2,163,0,162,150,82,154,-18.0,-106.0,26.0,-106.0,4.0,-90.7],"fall0":[3,771,0,84,125,42,124,-15.0,-94.0,15.0,-95.0,0.0,-80.0],"fall1":[3,325,0,91,126,45,124,-18.0,-95.0,12.0,-96.0,-3.0,-81.0],"fall2":[3,417,0,85,126,42,124,-17.0,-95.0,13.0,-96.0,-2.0,-81.0],"fall3":[3,856,0,85,125,42,124,-13.0,-95.0,16.0,-96.0,2.0,-81.0],"fall4":[3,942,0,103,125,51,124,-23.0,-93.0,7.0,-97.0,-6.0,-80.0],"fall5":[3,1872,0,87,83,43,94],"fall6":[3,409,152,109,66,51,69],"fall7":[3,997,152,127,46,65,48],"fall8":[3,110,152,112,76,61,84],"fall9":[3,1661,0,103,97,55,108,-14.0,-79.0,22.0,-78.0,5.0,-64.0],"fall10":[3,247,0,77,139,42,140,-17.0,-115.0,19.0,-115.0,1.0,-99.0],"fall11":[3,0,0,83,151,42,151,-19.0,-117.0,17.0,-117.0,-1.0,-101.0],"fall0-1.1":[3,1046,0,86,125,43,124,-16.0,-94.3,14.0,-95.3,-1.0,-80.3],"fall0-1.2":[3,503,0,89,126,44,124,-17.0,-94.7,13.0,-95.7,-2.0,-80.7],"fall1-2.1":[3,593,0,89,126,44,124,-17.7,-95.0,12.3,-96.0,-2.7,-81.0],"fall1-2.2":[3,683,0,87,126,43,124,-17.3,-95.0,12.7,-96.0,-2.3,-81.0],"fall2-3.1":[3,1133,0,86,125,43,124,-15.7,-95.0,14.0,-96.0,-0.7,-81.0],"fall2-3.2":[3,1220,0,84,125,42,124,-14.3,-95.0,15.0,-96.0,0.7,-81.0],"fall3-4.1":[3,1305,0,90,125,45,124,-16.3,-94.3,13.0,-96.3,-0.7,-80.7],"fall3-4.2":[3,1396,0,96,125,48,124,-19.7,-93.7,10.0,-96.7,-3.3,-80.3],"fall5-6.1":[3,223,152,88,75,43,84],"fall5-6.2":[3,312,152,96,68,44,75],"fall6-7.1":[3,636,152,115,57,56,61],"fall6-7.2":[3,875,152,121,50,61,53],"fall7-8.1":[3,752,152,122,56,64,60],"fall7-8.2":[3,519,152,116,66,62,72],"fall8-9.1":[3,0,152,109,83,59,92],"fall8-9.2":[3,1765,0,106,89,57,99],"fall9-10.1":[3,1571,0,89,110,48,118,-15.0,-91.0,21.0,-90.3,3.7,-75.7],"fall9-10.2":[3,1493,0,77,125,42,130,-16.0,-103.0,20.0,-102.7,2.3,-87.3],"fall10-11.1":[3,167,0,79,143,42,144,-17.7,-115.7,18.3,-115.7,0.3,-99.7],"fall10-11.2":[3,84,0,82,148,43,148,-18.3,-116.3,17.7,-116.3,-0.3,-100.3],"rain0":[4,1223,216,103,153,52,151,-23.0,-106.0,23.0,-106.0,1.0,-89.0],"rain1":[4,492,216,103,179,52,177,-21.0,-106.0,25.0,-106.0,3.0,-89.0],"rain2":[4,916,216,103,157,52,155,-23.0,-106.0,23.0,-106.0,1.0,-89.0],"rain3":[4,1739,216,101,147,50,146,-23.0,-106.0,23.0,-106.0,1.0,-89.0],"rain4":[4,1327,216,103,153,52,151,-23.0,-106.0,23.0,-106.0,1.0,-89.0],"rain5":[4,1431,216,103,153,52,151,-23.0,-106.0,23.0,-106.0,1.0,-89.0],"rain6":[4,1020,216,101,155,48,155,-23.0,-107.0,23.0,-107.0,1.0,-90.0],"rain7":[4,666,399,104,142,51,140,-23.0,-99.0,23.0,-99.0,1.0,-82.0],"rain8":[4,1841,216,143,147,68,149,-23.0,-101.0,25.0,-101.0,3.0,-84.0],"rain9":[4,771,399,142,142,66,144,-23.0,-102.0,23.0,-102.0,1.0,-85.0],"rain10":[4,166,216,159,181,80,181,-13.0,-114.0,31.0,-114.0,9.0,-98.0],"rain11":[4,1278,0,165,183,83,183,-23.0,-108.0,21.0,-108.0,-1.0,-92.0],"rain12":[4,326,216,165,180,83,180,-21.0,-110.0,23.0,-110.0,1.0,-94.0],"rain13":[4,970,0,141,199,66,201,-23.0,-102.0,25.0,-102.0,1.0,-85.0],"rain14":[4,0,0,106,215,50,214,-23.0,-96.0,23.0,-96.0,1.0,-80.0],"rain5-6.1":[4,1535,216,100,152,49,152,-23.0,-106.3,23.0,-106.3,1.0,-89.3],"rain5-6.2":[4,1122,216,100,154,48,154,-23.0,-106.7,23.0,-106.7,1.0,-89.7],"rain6-7.1":[4,1636,216,102,150,49,150,-23.0,-104.3,23.0,-104.3,1.0,-87.3],"rain6-7.2":[4,0,399,103,145,50,145,-23.0,-101.7,23.0,-101.7,1.0,-84.7],"rain7-8.1":[4,532,399,133,143,58,143,-23.0,-99.7,23.7,-99.7,1.7,-82.7],"rain7-8.2":[4,104,399,140,145,65,146,-23.0,-100.3,24.3,-100.3,2.3,-83.3],"rain8-9.1":[4,245,399,143,145,67,147,-23.0,-101.3,24.3,-101.3,2.3,-84.3],"rain8-9.2":[4,389,399,142,144,66,146,-23.0,-101.7,23.7,-101.7,1.7,-84.7],"rain9-10.1":[4,756,216,159,161,80,163,-19.7,-106.0,25.7,-106.0,3.7,-89.3],"rain9-10.2":[4,596,216,159,163,80,164,-16.3,-110.0,28.3,-110.0,6.3,-93.7],"rain10-11.1":[4,1776,0,165,182,83,183,-16.3,-112.0,27.7,-112.0,5.7,-96.0],"rain10-11.2":[4,1444,0,165,183,83,183,-19.7,-110.0,24.3,-110.0,2.3,-94.0],"rain11-12.1":[4,1610,0,165,183,83,183,-22.3,-108.7,21.7,-108.7,-0.3,-92.7],"rain11-12.2":[4,0,216,165,182,83,183,-21.7,-109.3,22.3,-109.3,0.3,-93.3],"rain12-13.1":[4,804,0,165,200,83,201,-21.7,-107.3,23.7,-107.3,1.0,-91.0],"rain12-13.2":[4,1112,0,165,199,83,201,-22.3,-104.7,24.3,-104.7,1.0,-88.0],"rain13-14.1":[4,107,0,135,215,60,214,-23.0,-100.0,24.3,-100.0,1.0,-83.3],"rain13-14.2":[4,243,0,133,215,58,214,-23.0,-98.0,23.7,-98.0,1.0,-81.7],"rain14-7.1":[4,377,0,106,215,50,214,-23.0,-97.0,23.0,-97.0,1.0,-80.7],"rain14-7.2":[4,484,0,106,215,50,214,-23.0,-98.0,23.0,-98.0,1.0,-81.3],"rain14-5.1":[4,591,0,106,215,50,214,-23.0,-99.3,23.0,-99.3,1.0,-83.0],"rain14-5.2":[4,698,0,105,215,49,214,-23.0,-102.7,23.0,-102.7,1.0,-86.0],"rw0":[5,326,225,114,220,53,221,-16.1,-113.6,12.2,-112.6,-1.0,-93.6],"rw1":[5,441,225,115,220,53,221,-16.1,-113.6,12.2,-112.6,-1.0,-93.6],"rw2":[5,1084,0,120,221,55,222,-16.1,-113.6,12.2,-112.6,-1.0,-93.6],"rw3":[5,1205,0,126,221,59,221,-16.1,-113.1,12.2,-112.1,-1.0,-93.1],"rw4":[5,557,225,131,220,63,221,-16.1,-112.8,12.2,-111.8,-1.0,-92.8],"rw5":[5,689,225,131,220,63,221,-16.1,-112.8,12.2,-111.8,-1.0,-92.8],"rw6":[5,1332,0,139,221,67,219,-16.1,-112.1,12.2,-111.0,-1.0,-92.0],"rw7":[5,1472,0,140,221,68,219,-16.1,-111.8,12.2,-110.8,-1.0,-91.8],"rw8":[5,1613,0,140,221,68,219,-16.1,-111.5,12.2,-110.5,-1.0,-91.5],"rw9":[5,821,225,134,220,64,218,-16.1,-111.3,12.2,-110.2,-1.0,-91.3],"rw10":[5,1754,0,121,221,56,219,-16.1,-111.8,12.2,-110.8,-1.0,-91.8],"rw11":[5,1876,0,121,221,56,219,-16.1,-111.8,12.2,-110.8,-1.0,-91.8],"rw12":[5,651,0,115,222,54,220,-16.1,-112.3,12.2,-111.3,-1.0,-92.3],"rw13":[5,767,0,109,222,52,220,-16.1,-112.6,12.2,-111.5,-1.0,-92.6],"rw14":[5,451,0,97,223,47,221,-16.1,-113.1,12.2,-112.1,-1.0,-93.1],"rw15":[5,0,0,89,224,47,222,-16.1,-113.6,12.2,-112.6,-1.0,-93.6],"rw16":[5,90,0,89,224,47,222,-16.1,-113.6,12.2,-112.6,-1.0,-93.6],"rw17":[5,180,0,88,224,47,222,-16.1,-113.9,12.2,-112.8,-1.0,-93.9],"rw18":[5,269,0,90,224,47,222,-16.1,-113.6,12.2,-112.6,-1.0,-93.6],"rw19":[5,360,0,90,224,47,222,-16.1,-113.6,12.2,-112.6,-1.0,-93.6],"rw20":[5,549,0,101,223,50,221,-16.1,-113.1,12.2,-112.1,-1.0,-93.1],"rw21":[5,0,225,114,221,56,219,-16.1,-112.1,12.2,-111.0,-1.0,-92.0],"rw22":[5,115,225,115,221,58,219,-16.1,-111.8,12.2,-110.8,-1.0,-91.8],"rw23":[5,956,225,114,220,58,218,-16.1,-111.5,12.2,-110.5,-1.0,-91.5],"rw24":[5,1071,225,106,220,56,218,-16.1,-111.0,12.2,-110.0,-1.0,-91.0],"rw25":[5,1352,225,93,219,51,218,-16.1,-111.3,12.2,-110.2,-1.0,-91.3],"rw26":[5,1446,225,97,219,54,218,-16.1,-111.3,12.2,-110.2,-1.0,-91.3],"rw27":[5,1178,225,86,220,47,219,-16.1,-111.5,12.2,-110.5,-1.0,-91.5],"rw28":[5,1265,225,86,220,47,219,-16.1,-111.8,12.2,-110.8,-1.0,-91.8],"rw29":[5,231,225,94,221,46,220,-16.1,-112.3,12.2,-111.3,-1.0,-92.3],"rw30":[5,877,0,103,222,47,221,-16.1,-113.1,12.2,-112.1,-1.0,-93.1],"rw31":[5,981,0,102,222,47,221,-16.1,-113.1,12.2,-112.1,-1.0,-93.1]},"tw":{"happy0-1":2,"happy1-2":2,"happy2-3":2,"happy3-4":2,"happy4-5":2,"happy5-6":2,"happy6-7":2,"happy7-0":2,"happy0-2":2,"happy2-4":2,"happy0-3":2,"hello0-1":2,"hello1-2":2,"hello2-3":2,"hello3-4":2,"hello4-5":2,"hello5-6":2,"hello6-7":2,"hello7-8":2,"hello8-9":2,"hello9-10":2,"hello10-0":2,"hello1-3":2,"push2-3":2,"push3-4":2,"push4-5":2,"push5-6":2,"push6-7":2,"push7-8":2,"push8-4":2,"push8-9":2,"push9-10":2,"push10-11":2,"fall0-1":2,"fall1-2":2,"fall2-3":2,"fall3-4":2,"fall5-6":2,"fall6-7":2,"fall7-8":2,"fall8-9":2,"fall9-10":2,"fall10-11":2,"rain5-6":2,"rain6-7":2,"rain7-8":2,"rain8-9":2,"rain9-10":2,"rain10-11":2,"rain11-12":2,"rain12-13":2,"rain13-14":2,"rain14-7":2,"rain14-5":2},"idle":[32,3.2],"rw":[32,68],"rwq":1.5,"reach":{"push2":51,"push3":46,"push4":57,"push5":61,"push6":62,"push7":65,"push8":61,"push9":60,"push10":66,"push11":45}};/*END-BEAR-DATA*/
   var STAND = 150, BV = "s1";
   var ATL = BD.atlas.map(function (fn) { return { fn: fn, img: null, ok: false }; });
   function loadAtlas(i) {
     var a = ATL[i]; if (!a || a.img) return;
     var im = new Image(); im.decoding = "async"; im.onload = function () { a.ok = true; }; im.src = BASE + a.fn + "?v=" + BV; a.img = im;
   }
-  loadAtlas(0);                                                     // idle, walk, waving: needed straight away
+  loadAtlas(0); loadAtlas(5);                                                     // idle, walk, waving: needed straight away
   setTimeout(function () { [3, 2, 1, 4].forEach(function (i, n) { setTimeout(function () { loadAtlas(i); }, n * 350); }); }, 1200);
   function has(n) { var d = BD.f[n]; return !!(d && ATL[d[0]].ok); }
   function sheetReady(sh) { return has(sh + (sh === "push" ? 4 : 0)); }
@@ -582,7 +582,7 @@
       var d = BD.f[parts[i][0]], a = parts[i][1] * wgt; if (!d || a <= .003) continue;
       var at = ATL[d[0]]; if (!at.ok) { d = BD.f["idle0"]; at = ATL[0]; if (!at.ok) continue; }
       c.globalAlpha = Math.min(1, a);
-      c.drawImage(at.img, d[1], d[2], d[3], d[4], -d[5] * k, -d[6] * k, d[3] * k, d[4] * k);
+      var q = d[0] === 5 ? (BD.rwq || 1) : 1, kq = k / q; c.drawImage(at.img, d[1], d[2], d[3], d[4], -d[5] * kq, -d[6] * kq, d[3] * kq, d[4] * kq);
     }
   }
   function poseChain(P) {

diff --git a/index.html b/index.html
@@ -12,7 +12,7 @@
 <link href="https://fonts.googleapis.com/css2?family=Sora:wght@400;600;800&family=Inter:wght@400;500;600&display=swap" rel="stylesheet">
 <link rel="stylesheet" href="style.css?v=20261110a">
 <link rel="stylesheet" href="liquid.css?v=20261110c">
-<link rel="stylesheet" href="assistant/assistant.css?v=20261114s">
+<link rel="stylesheet" href="assistant/assistant.css?v=20261114t">
 <style id="iu-noshine">
 /* no white glow / sheen / streak anywhere: flat clear glass only */
 .glass::before,.glass::after,.nav::before,.nav::after,.btn::before,.btn::after,.hv::before,.hv-bar::before,.stats::before,.scroll-hint::before,.lcard::before,.lcard::after,.resource-card::before,.resource-card::after,.join-card::before,.join-card::after{display:none!important;content:none!important;background:none!important}
@@ -307,7 +307,7 @@ html.iu-lite .glass,html.iu-lite .stats,html.iu-lite .lcard,html.iu-lite .resour
 <script src="learn.js?v=20261108b" defer></script>
 <script src="hero.js?v=20261109e" defer></script>
 <script src="liquid.js?v=20261108e" defer></script>
-<script src="assistant/assistant.js?v=20261114s" defer></script>
+<script src="assistant/assistant.js?v=20261114t" defer></script>
 <!-- Cloudflare Web Analytics --><script type='module' src='https://static.cloudflareinsights.com/beacon.min.js' data-cf-beacon='{"token": "4430f3cf35574ab6ad9424fcfbec8008"}'></script><!-- End Cloudflare Web Analytics -->
 </body>
 </html>
